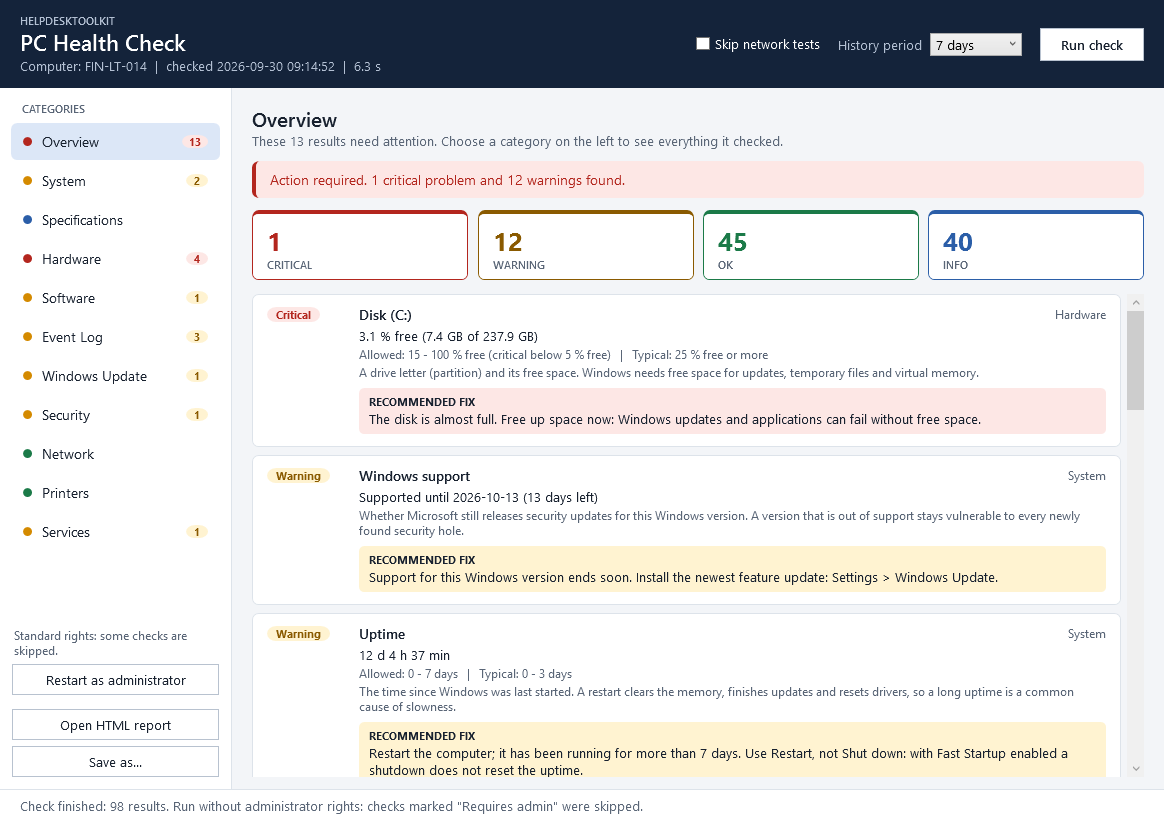
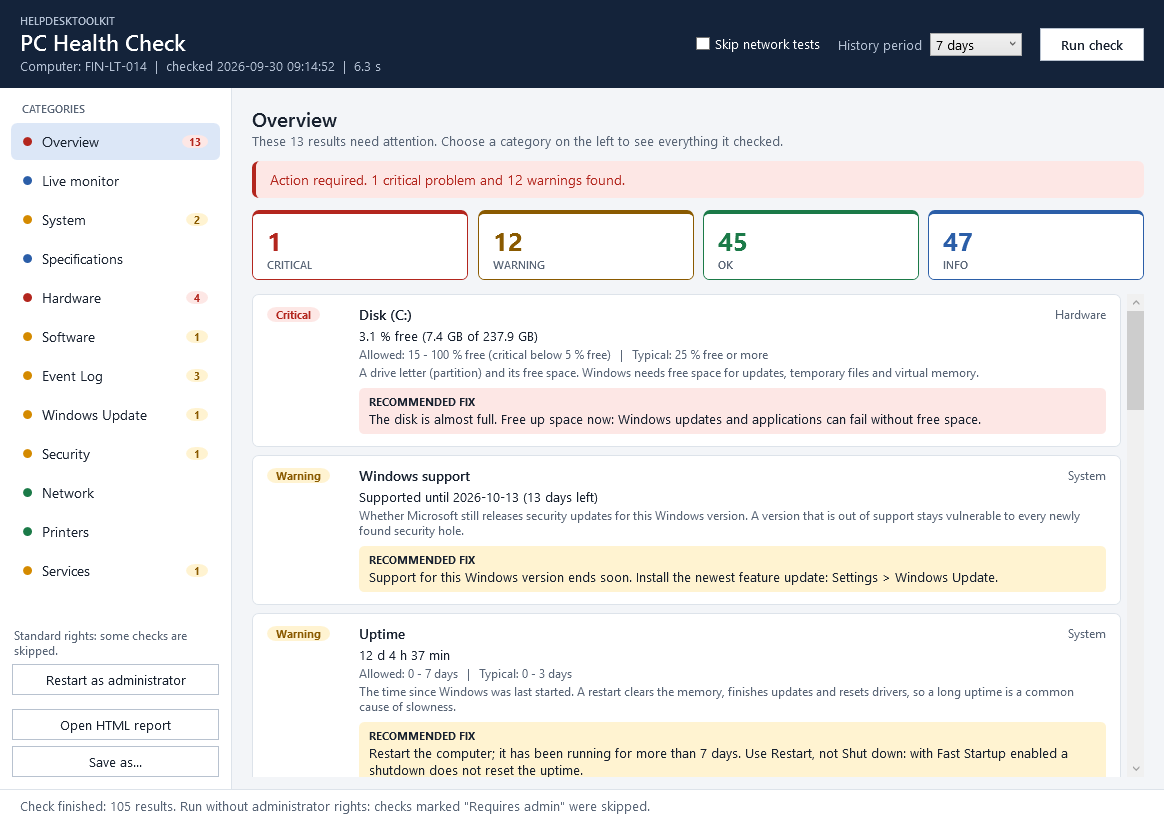
docs: describe the Live monitor and update the sample and screenshots

diff --git a/docs/sample-report.html b/docs/sample-report.html
@@ -506,7 +506,7 @@ footer {
 <div class="tile critical"><span class="count">1</span><span class="label">Critical</span></div>
 <div class="tile warning"><span class="count">12</span><span class="label">Warning</span></div>
 <div class="tile ok"><span class="count">45</span><span class="label">OK</span></div>
-<div class="tile info"><span class="count">40</span><span class="label">Info</span></div>
+<div class="tile info"><span class="count">47</span><span class="label">Info</span></div>
 </section>
 <nav class="toc" aria-label="Categories">
 <a href="#cat-system"><span class="dot warning"></span>System</a>
@@ -562,14 +562,21 @@ footer {
 </tbody></table>
 </section>
 <section class="card" id="cat-specifications">
-<div class="card-header"><h2>Specifications</h2><span class="counts"><span class="info">7 Info</span></span></div>
+<div class="card-header"><h2>Specifications</h2><span class="counts"><span class="info">14 Info</span></span></div>
 <table>
 <thead><tr><th class="col-status">Status</th><th class="col-check">Check</th><th>Result</th></tr></thead>
 <tbody>
 <tr><td class="col-status"><span class="badge info">Info</span></td><td class="col-check"><div class="check">Processor</div><div class="description">The processor (CPU) executes every program. More cores and a higher clock speed let the computer do more work at the same time.</div></td><td><div class="value">Contoso Core 8 2.40GHz, 8 cores / 16 threads, 2.4 GHz</div></td></tr>
+<tr><td class="col-status"><span class="badge info">Info</span></td><td class="col-check"><div class="check">Processor details</div><div class="description">The cache is very fast memory inside the processor; a larger cache helps demanding programs. Hardware virtualization is needed by virtual machines, WSL 2, Windows Sandbox and Android emulators, and is switched on in the BIOS/UEFI setup.</div></td><td><div class="value">L2 cache 10 MB, L3 cache 24 MB, 64-bit, virtualization enabled in firmware</div></td></tr>
 <tr><td class="col-status"><span class="badge info">Info</span></td><td class="col-check"><div class="check">Memory</div><div class="description">RAM is the short-term working memory of running programs. The module layout and the free slots show whether more memory can be added.</div></td><td><div class="value">16 GB (2 x 8 GB DDR4, 3200 MHz), 2 of 2 slots used</div></td></tr>
-<tr><td class="col-status"><span class="badge info">Info</span></td><td class="col-check"><div class="check">Graphics</div><div class="description">The graphics adapter draws everything shown on the screen. The driver version matters when the picture flickers or video and games misbehave.</div></td><td><div class="value">Contoso Graphics 770 (driver 31.0.101.5186), 1920 x 1080 @ 60 Hz</div></td></tr>
+<tr><td class="col-status"><span class="badge info">Info</span></td><td class="col-check"><div class="check">Memory module</div><div class="description">One installed RAM module: the slot it sits in, its size, type and speed, the manufacturer and the part number. A module that is added later should match the existing ones.</div></td><td><div class="value">DIMM A: 8 GB DDR4, 3200 MHz, Contoso CT8G4SFS832A</div></td></tr>
+<tr><td class="col-status"><span class="badge info">Info</span></td><td class="col-check"><div class="check">Memory module</div><div class="description">One installed RAM module: the slot it sits in, its size, type and speed, the manufacturer and the part number. A module that is added later should match the existing ones.</div></td><td><div class="value">DIMM B: 8 GB DDR4, 3200 MHz, Contoso CT8G4SFS832A</div></td></tr>
+<tr><td class="col-status"><span class="badge info">Info</span></td><td class="col-check"><div class="check">Graphics</div><div class="description">The graphics adapter draws everything shown on the screen. Its own memory holds the picture data of games and video; the driver version and date matter when the picture flickers or video and games misbehave.</div></td><td><div class="value">Contoso Graphics 770 (driver 31.0.101.5186 from 2025-11-03), 1920 x 1080 @ 60 Hz</div></td></tr>
 <tr><td class="col-status"><span class="badge info">Info</span></td><td class="col-check"><div class="check">Display</div><div class="description">A monitor connected to the computer: its model, manufacturer code and year of manufacture.</div></td><td><div class="value">Contoso 24W (CTS, 2023)</div></td></tr>
+<tr><td class="col-status"><span class="badge info">Info</span></td><td class="col-check"><div class="check">Storage</div><div class="description">A physical drive built into or connected to the computer: its model, size, type (SSD or HDD), connection and firmware version. The health of the drives is reported under Hardware.</div></td><td><div class="value">Contoso NVMe 256GB, 238.5 GB SSD (NVMe), firmware 2B4QCXM7</div></td></tr>
+<tr><td class="col-status"><span class="badge info">Info</span></td><td class="col-check"><div class="check">Storage</div><div class="description">A physical drive built into or connected to the computer: its model, size, type (SSD or HDD), connection and firmware version. The health of the drives is reported under Hardware.</div></td><td><div class="value">Contoso HDD 500GB, 465.8 GB HDD (SATA), firmware 0001SDM1</div></td></tr>
+<tr><td class="col-status"><span class="badge info">Info</span></td><td class="col-check"><div class="check">Audio devices</div><div class="description">Sound cards and other devices that play or record sound. Virtual devices are created by programs (voice changers, streaming tools) and are a common reason why sound comes out of the wrong device.</div></td><td><div class="value">Contoso High Definition Audio, Contoso USB Headset and 1 virtual</div><details><summary>Show 1 more</summary><ul><li>Web Meeting Virtual Speaker (virtual)</li></ul></details></td></tr>
+<tr><td class="col-status"><span class="badge info">Info</span></td><td class="col-check"><div class="check">Input devices</div><div class="description">The keyboards and pointing devices (mouse, touchpad) that Windows recognizes.</div></td><td><div class="value">Contoso Precision Touchpad, Contoso Wireless Mouse M2, Standard PS/2 Keyboard</div></td></tr>
 <tr><td class="col-status"><span class="badge info">Info</span></td><td class="col-check"><div class="check">Motherboard</div><div class="description">The main board that all other components plug into. Its model decides which processors, memory and expansion cards are supported.</div></td><td><div class="value">Contoso Ltd. 0A1B2C</div></td></tr>
 <tr><td class="col-status"><span class="badge info">Info</span></td><td class="col-check"><div class="check">BIOS</div><div class="description">The firmware that starts the hardware before Windows loads. An outdated version can cause compatibility and stability problems.</div></td><td><div class="value">Contoso Ltd. 1.14.2 (2025-03-18), UEFI mode</div></td></tr>
 <tr><td class="col-status"><span class="badge info">Info</span></td><td class="col-check"><div class="check">Serial number</div><div class="description">The unique number the manufacturer gave this computer. It is used for warranty claims and asset tracking.</div></td><td><div class="value">CNT4012XYZ</div></td></tr>

diff --git a/README.hr.md b/README.hr.md
@@ -23,7 +23,7 @@ Sučelje i izvještaj su na engleskom jeziku.
 | Kategorija | Provjere |
 |---|---|
 | System | Ime računala, verzija i build Windowsa, ima li ta verzija još Microsoftovu podršku, datum instalacije, proizvođač i model, domena ili radna grupa, prijavljeni korisnik, vremenska zona, uptime, indeks stabilnosti, aktivacija Windowsa, programi koji se pokreću sa sustavom, trajanje zadnjeg pokretanja\*, veličina korisničkih profila\* |
-| Specifications | Procesor, memorijski moduli i slobodni utori, grafičke kartice, monitori, matična ploča, BIOS/UEFI, serijski broj |
+| Specifications | Procesor s veličinom cache memorije i stanjem virtualizacije, raspored memorije i slobodni utori, svaki memorijski modul (utor, brzina, proizvođač, kataloški broj), grafičke kartice s memorijom i datumom drivera, monitori, fizički diskovi s verzijom firmwarea, optički pogoni, audio uređaji, tipkovnice i pokazivački uređaji, matična ploča, BIOS/UEFI, serijski broj |
 | Hardware | Opterećenje CPU-a, zauzeće RAM-a i najveći potrošači memorije, zdravlje svakog fizičkog diska, slobodan prostor po disku, prostor koji se može osloboditi (privremene datoteke, Downloads, koš za smeće), page file, uređaji bez ispravnog drivera, baterija, detalji diska (temperatura, istrošenost, sati rada, neispravljene greške)\*, diskovi označeni za provjeru\*, privremene datoteke Windowsa\* |
 | Software | Instalirani programi s verzijama, nedavno instalirani programi, rušenja aplikacija po programu, zadani preglednik |
 | Event Log | Neočekivana gašenja, plavi ekrani, greške diska, greške hardvera (WHEA), kritični događaji i greške u System i Application logu u zadnjih N dana, najčešći izvori |
@@ -39,6 +39,27 @@ Svaki rezultat ima status (**OK**, **Warning**, **Critical** ili **Info**), krat
 objašnjenje što je to što se provjerava i preporučeno rješenje kad god je status Warning
 ili Critical. Uz mjerenja se prikazuju i dopušteni raspon te tipična vrijednost za
 usporedbu.
+
+## Live monitor
+
+Stranica **Live monitor** u prozoru ne traži provjeru. Prikazuje što računalo radi u
+ovom trenutku i osvježava se otprilike svake dvije sekunde:
+
+- opterećenje svakog logičkog procesora, ukupno opterećenje i trenutni takt
+- zauzeta i rezervirana (committed) memorija
+- opterećenje i memorija grafičke kartice
+- aktivnost te brzina čitanja i pisanja svakog fizičkog diska
+- brzina preuzimanja i slanja svakog mrežnog adaptera
+- programi koji troše najviše procesorskog vremena
+
+![Stranica Live monitor](docs/screenshot-monitor.png)
+
+Isti podaci dostupni su u skriptama kroz `Get-PerformanceSnapshot`.
+
+Temperature, brzine ventilatora i naponi se ne prikazuju. Windows ih ne daje
+programima; alati koji ih prikazuju instaliraju vlastiti hardverski driver, što ovaj
+alat namjerno ne radi. Iznimka je temperatura diskova: ona je dio detalja diska koji se
+čitaju s administratorskim pravima.
 
 ## Administratorska prava
 
@@ -113,9 +134,11 @@ Set-ExecutionPolicy -Scope CurrentUser -ExecutionPolicy RemoteSigned
 Show-PCHealthCheck
 ```
 
-Klikni **Run check**. Stranica **Overview** prikazuje sve probleme s preporučenim
+Klikni **Run check**; traka napretka pokazuje koja se kategorija upravo provjerava.
+Stranica **Overview** prikazuje sve probleme s preporučenim
 rješenjem. Odaberi kategoriju lijevo (System, Hardware, Network, ...) da vidiš sve što je
 u njoj provjereno; točka i broj uz svaku kategoriju pokazuju gdje su problemi.
+**Live monitor** prikazuje trenutno opterećenje računala, vidi [Live monitor](#live-monitor).
 **Open HTML report** sprema izvještaj i otvara ga u pregledniku, a **Save as...** ga
 sprema kao HTML ili JSON na mjesto koje odabereš.
 
@@ -155,14 +178,20 @@ Get-ComputerSpecification | Format-Table Check, Value -AutoSize
 $report = Get-PCHealthReport -Days 14
 $report.Summary
 $report.Results | Where-Object Status -eq 'Critical'
+
+# Što računalo radi upravo sada: opterećenje po logičkom procesoru, najzaposleniji programi
+$now = Get-PerformanceSnapshot
+$now.Cpu.Processors | Format-Table Name, Percent, FrequencyMHz
+$now.Processes
 ```
 
 Dostupne naredbe: `Invoke-PCHealthCheck`, `Show-PCHealthCheck`, `Get-PCHealthReport`,
 `Get-SystemHealth`, `Get-ComputerSpecification`, `Get-HardwareHealth`,
 `Get-SoftwareHealth`, `Get-EventLogHealth`, `Get-WindowsUpdateHealth`,
-`Get-SecurityHealth`, `Get-NetworkHealth`, `Get-PrinterHealth`, `Get-ServiceHealth`. Svaka ima potpunu pomoć: `Get-Help <naredba> -Full`.
+`Get-SecurityHealth`, `Get-NetworkHealth`, `Get-PrinterHealth`, `Get-ServiceHealth`,
+`Get-PerformanceSnapshot`. Svaka ima potpunu pomoć: `Get-Help <naredba> -Full`.
 
-Svaki rezultat je objekt s istim svojstvima:
+Svaki rezultat provjere je objekt s istim svojstvima:
 
 | Svojstvo | Sadržaj |
 |---|---|

diff --git a/README.md b/README.md
@@ -21,7 +21,7 @@ problems it found and what to do about them.
 | Category | Checks |
 |---|---|
 | System | Computer name, Windows version and build, whether that version is still supported by Microsoft, install date, manufacturer and model, domain or workgroup, signed-in user, time zone, uptime, stability index, Windows activation, startup programs, last startup duration\*, size of the user profiles\* |
-| Specifications | Processor, memory modules and free slots, graphics adapters, displays, motherboard, BIOS/UEFI, serial number |
+| Specifications | Processor with cache sizes and virtualization state, memory layout and free slots, every memory module (slot, speed, manufacturer, part number), graphics adapters with memory and driver date, displays, physical drives with firmware version, optical drives, audio devices, keyboards and pointing devices, motherboard, BIOS/UEFI, serial number |
 | Hardware | CPU load, memory usage and the top memory consumers, health of every physical drive, free space per disk, space that can be freed (temporary files, Downloads, Recycle Bin), page file, devices without a working driver, battery, drive details (temperature, wear, power-on hours, uncorrected errors)\*, drives flagged for a disk check\*, temporary files of Windows\* |
 | Software | Installed programs with versions, recently installed programs, application crashes per program, default browser |
 | Event Log | Unexpected shutdowns, blue screens, disk errors, hardware errors (WHEA), critical events and errors in the System and Application logs for the last N days, top sources |
@@ -37,6 +37,27 @@ Every result has a status (**OK**, **Warning**, **Critical** or **Info**), a sho
 explanation of what the checked thing is, and a recommended fix whenever the status is
 Warning or Critical. Measurements also show the allowed range and a typical value for
 comparison.
+
+## Live monitor
+
+The **Live monitor** page of the window needs no health check. It shows what the
+computer is doing right now and refreshes about every two seconds:
+
+- load of every logical processor, total load and current clock speed
+- memory in use and committed memory
+- load and memory of the graphics adapter
+- activity, read rate and write rate of every physical disk
+- download and upload rate of every network adapter
+- the programs that use the most processor time
+
+![The Live monitor page](docs/screenshot-monitor.png)
+
+The same data is available in scripts through `Get-PerformanceSnapshot`.
+
+Temperatures, fan speeds and voltages are not shown. Windows does not expose them to
+programs; tools that display them install a hardware driver of their own, which this
+tool deliberately does not do. The temperature of the drives is the exception: it is
+part of the drive details that are read with administrator rights.
 
 ## Administrator rights
 
@@ -111,9 +132,11 @@ Set-ExecutionPolicy -Scope CurrentUser -ExecutionPolicy RemoteSigned
 Show-PCHealthCheck
 ```
 
-Click **Run check**. The **Overview** page lists every problem with its recommended fix.
+Click **Run check**; a progress bar shows which category is being checked. The
+**Overview** page lists every problem with its recommended fix.
 Choose a category on the left (System, Hardware, Network, ...) to see everything it
 checked; the dot and the number next to each category show where the problems are.
+**Live monitor** shows the current load of the computer, see [Live monitor](#live-monitor).
 **Open HTML report** saves the report and opens it in the browser; **Save as...** saves
 it as HTML or JSON wherever you choose.
 
@@ -153,14 +176,20 @@ Get-ComputerSpecification | Format-Table Check, Value -AutoSize
 $report = Get-PCHealthReport -Days 14
 $report.Summary
 $report.Results | Where-Object Status -eq 'Critical'
+
+# What the computer is doing right now: load per logical processor, busiest programs
+$now = Get-PerformanceSnapshot
+$now.Cpu.Processors | Format-Table Name, Percent, FrequencyMHz
+$now.Processes
 ```
 
 Available commands: `Invoke-PCHealthCheck`, `Show-PCHealthCheck`, `Get-PCHealthReport`,
 `Get-SystemHealth`, `Get-ComputerSpecification`, `Get-HardwareHealth`,
 `Get-SoftwareHealth`, `Get-EventLogHealth`, `Get-WindowsUpdateHealth`,
-`Get-SecurityHealth`, `Get-NetworkHealth`, `Get-PrinterHealth`, `Get-ServiceHealth`. Each has full help: `Get-Help <command> -Full`.
+`Get-SecurityHealth`, `Get-NetworkHealth`, `Get-PrinterHealth`, `Get-ServiceHealth`,
+`Get-PerformanceSnapshot`. Each has full help: `Get-Help <command> -Full`.
 
-Every result is an object with the same properties:
+Every check result is an object with the same properties:
 
 | Property | Content |
 |---|---|
